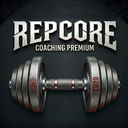
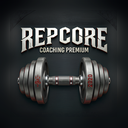
fix(pwa): icones launcher calees sur la zone sure Samsung/Android
- Contenu (REPCORE + haltere) reduit a 72% sur les icones maskable :
  plus rien ne touche le bord du squircle Samsung ni du cercle
- Marge comblee par l'image elle-meme floutee + fondu progressif :
  aucune bordure noire, transition invisible
- Bump cache SW v300

diff --git a/sw.js b/sw.js
@@ -1,4 +1,4 @@
-const CACHE = 'repcore-v299';
+const CACHE = 'repcore-v300';
 const SW_DATA = 'repcore-sw-data'; // persistent across updates — not wiped by activate
 const ASSETS = ['./manifest.json', './icons/icon-192x192.png', './icons/icon-512x512.png', './icons/logo.png', './data/ciqual.json'];
 
